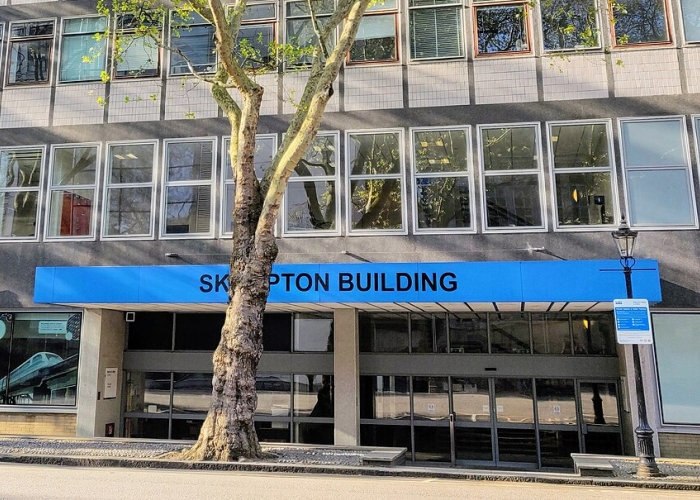
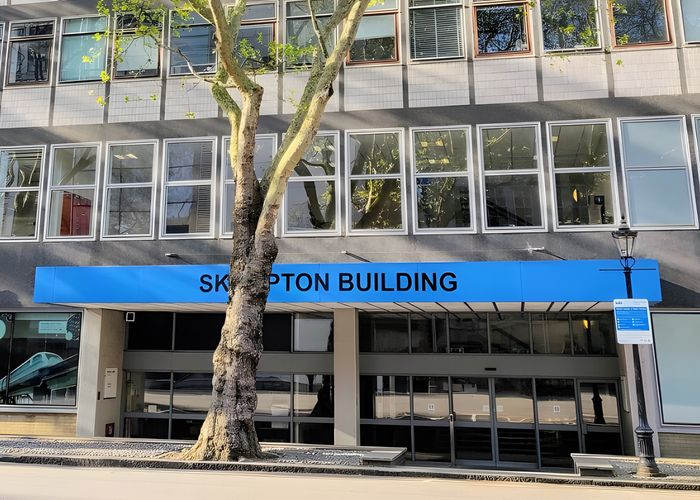
replaced png's with jpegs.

diff --git a/_styles/feature.scss b/_styles/feature.scss
@@ -14,7 +14,7 @@ $wrap: 700px;
 .feature-image {
   flex-shrink: 0;
   width: 40%;
-  aspect-ratio: 3 / 2;
+  // aspect-ratio: 3 / 2;
   border-radius: var(--rounded);
   overflow: hidden;
   box-shadow: var(--shadow);

diff --git a/index.md b/index.md
@@ -7,6 +7,10 @@ Led by [**Dr Panagiotis Angeloudis**](/members/angeloudis-p), our team has exper
 
 Our work aims to advance the adoption of automation and increase the efficiency and sustainability of the transportation sector.
 
+{%
+  include figure.html
+  image="images/team/team.jpg"
+%}
 
 {% include section.html %}
 
@@ -33,7 +37,7 @@ We have sought solutions using **optimisation**, **reinforcement learning**, **n
 
 {%
   include feature.html
-  image="images/img_research.jpeg"
+  image="images/img_research.jpg"
   link="projects"
   title="Our Research"
   flip=true
@@ -77,8 +81,9 @@ Our research team is driven by curiosity and zeal for technical challenges. We b
 
 {%
   include feature.html
-  image="images/img_team.jpeg"
+  image="images/img_team.jpg"
   link="team"
   title="Our Team"
+  style="bare"
   text=text
 %}

diff --git a/_members/konovalenko-a.md b/_members/konovalenko-a.md
@@ -1,6 +1,6 @@
 ---
 name: Anna Konovalenko
-image: images/team/konovalenko-a.png
+image: images/team/konovalenko-a.jpg
 role: alumni
 brief-position: Molde University College
 external-page-only: https://www.linkedin.com/in/anna-konovalenko/

diff --git a/_members/matsui-k.md b/_members/matsui-k.md
@@ -1,7 +1,7 @@
 ---
 name: Kenta Matsui
 position: PhD Student
-image: images/team/matsui-k.png
+image: images/team/matsui-k.jpg
 role: phd
 education: 
   - "Kyoto University: BEng in Electrical Engineering (2012)"

diff --git a/_members/shipman-a.md b/_members/shipman-a.md
@@ -1,6 +1,6 @@
 ---
 name: Alastair Shipman
-image: images/team/shipman-a.png
+image: images/team/shipman-a.jpg
 role: alumni
 brief-position: Valsys
 external-page-only: https://www.linkedin.com/in/alastairshipman/

diff --git a/_members/qu-k.md b/_members/qu-k.md
@@ -1,7 +1,7 @@
 ---
 name: Kevin Qu
 position: PhD Student
-image: images/team/qu-k.png
+image: images/team/qu-k.jpg
 role: phd
 education: 
   - "University of Edinburgh: BEng in Mechanical Engineering (2021)"

diff --git a/contact/index.md b/contact/index.md
@@ -48,7 +48,7 @@ SW7 2BU, London
 
 {%
   include figure.html
-  image="images/photos/imperial.png"
+  image="images/photos/imperial.jpg"
   caption="Skempton Building"
 %}
 
